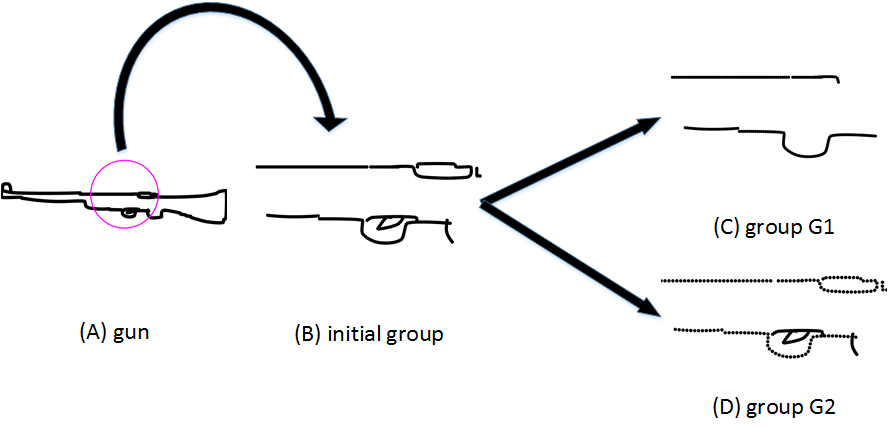
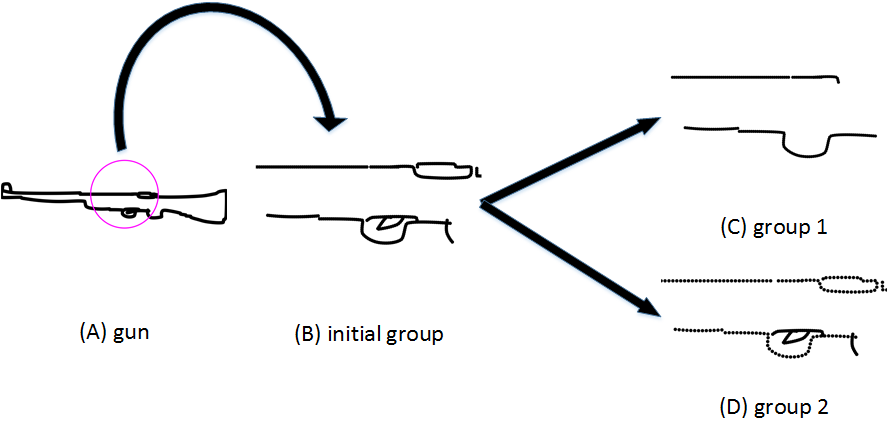
paper2.0

Changed region(s): [[0.7905, 0.9007, 0.9426, 0.9607], [0.7905, 0.4804, 0.9426, 0.5704]]

diff --git a/sketch_point_net/approach.tex b/sketch_point_net/approach.tex
@@ -1,12 +1,38 @@
 \section{Methodology}
 \label{sec:methodology}
 
-In this section, we introduce key steps of our works. We first detail how to sample points of fixed number for each sketch. Next, we explain our group scheme to choose a proper group size and guarantee the integrity of each group patterns. We then introduce our SketchPointNet architecture.
+In this section, we introduce key steps of our works. We first detail how the architecture of SketchPointNet is designed. Next, we will show how to resample each sketch into a fixed number of points. At last, we explain that our group scheme guarantees the integrity of each group patterns. The pipeline of our work are shown in Fig.~\ref{fig:pp}
+
+\begin{figure}[htbp]
+    \center
+    \includegraphics[width=3in]{images/pp.png}
+    \fcaption{Pipeline of our work}
+    \label{fig:pp}
+\end{figure}
+
+\subsection{SketchPointNet}
+\label{ssec:sketch_point_net}
+
+SketchPointNet architecture(see Fig.~\ref{fig:sketchpointnet}) are borrowed from PointNet++ architecture. In order to get local pattern information of each sketch, we group sketches for two times. Micro PointNet P1 summarize patterns with group radius $r_1$ equals to 0.1. Micro PointNet P2 summarize patterns in a large receptive field with $r_2 = 0.3$. PointNet P3 summarize pattern features generated from m2 for classification of 250 categories.
+
+In detail, each sketch is represented as 1024 points. Each point has 3 dimension. The first two dimension denote the location of the point. The last dimension is the stroke order information(each point belong to a stroke). In order to extract features of local patterns, we resample 512 points as group center every other points and group the points around the group center with $r_1 = 0.1$. After the first time of grouping, we get 512 groups $\left\{ g_{1_i}| i = 1, ..., 512 \right\}$. Each group contains 20 points. We get a 5d pattern feature after each of 512 groups passing through the micro PointNet P1. The feature of each group is a 8d vector which contains two parts. The first 5 dimension indicate the pattern feature of the group. The last 3 dimension indicate the center location of the group.
+
+In a similar way, we resample points every 4 points from the last group centers. Then we get 128 larger groups $\left\{ g_{2_i}| i = 1, ..., 128 \right\}$ after grouping $g_1$ with $r_2 = 0.3$. Each larger group contains 128 smaller groups from $g_1$. We get 29d vector as $g_2$ pattern features after feeding 128 smaller groups $g_1$ into micro PointNet P2. Pattern features concated with its center location are group features for each of $g_2$. At last, we feed PointNet P3 with $g_2$ group features. SketchPointNet output 250 scores corresponding to 250 categories.
+
+\begin{figure}
+    \center
+    \includegraphics[width=3in]{images/sketchpointnet.png}
+    \fcaption{SketchPointNet architecture.}
+    \label{fig:sketchpointnet}
+\end{figure}
+
 
 \subsection{Resample scenario}
 \label{ssec:resample_scenario}
 
-For each sketch, we sample it into a fixed number of points. The neighbor points inside a stroke have a fixed interval. We calculate each stroke length $\left\{ L_i| i = 1, ..., m \right\}$ from strokes $\left\{ T_i^{init}| i = 1, ..., m \right\}$. $m$ stands for stroke numbers. The total stroke length is $C$. Given the number of points $N$, we assign each stroke $B_i$ points $\left\{ B_i| i = 1, ..., m \right\}$ according to its corresponding stroke length $T_i$. Then we reample each stroke in $B_i$ points by using \$1 \cite{Wobbrock2007GesturesWL} resample scheme. The strokes after resampled are represented as $\left\{ T_i^{rsp}| i = 1, ..., m \right\}$. In Fig.~\ref{fig:resample}, the airplane and the tree are resample into different number of points.
+For each sketch, we sample it into a fixed number of points. Or we can sample each points in sketches with a given interval. In second case, the point number $\left\{ N_{P_i}| i = 1, ..., 20000 \right\}$ of sketches are different due to various total stroke length of each sketch. The input to the network must have a fixed size. Because tensorflow 1.2 only support static graph. If we set input size as $\max \limits_{1 \le i \le 20000} N_{P_i}$, there are great waste for computing resources. Because only few sketches need large input size.
+
+ We calculate each stroke length $\left\{ L_i| i = 1, ..., m \right\}$ from strokes $\left\{ T_i^{init}| i = 1, ..., m \right\}$. $m$ stands for stroke numbers. The total stroke length is $C$. Given the number of points $N$, we assign each stroke $B_i$ points $\left\{ B_i| i = 1, ..., m \right\}$ according to its corresponding stroke length $T_i$. Then we reample each stroke in $B_i$ points by using \$1 \cite{Wobbrock2007GesturesWL} resample scheme. The strokes after resampled are represented as $\left\{ T_i^{rsp}| i = 1, ..., m \right\}$. In Fig.~\ref{fig:resample}, the airplane and the tree are resample into different number of points.
 \begin{algorithm}[h]
 \label{alg:resample}
     \caption{Resample each sketch into N points}
@@ -32,9 +58,9 @@ For each sketch, we sample it into a fixed number of points. The neighbor points
 \subsection{Group scheme}
 \label{ssec:group_scheme}
 
-After resampling sketches, we get each of them represented as N points $\left\{P_i| i = 1,..., N\right\}$. For a sketch, We resample a series of points $\left\{P_{1}, P_{1+t}, P_{1+2*t}, ..., P_{1+(S_g-1)*t}\right\}$ every $t$ points as group center from the N Points. Then we group points according to group center with radius $r$. After grouping the sketch, we get $N_{g} \times S_{g}$. $N_{g}$ is the number of the group center. $S_{g}$ is the points number of each group. In a similar way, we group the sketch for more times according to last grouping center.
+After resampling sketches, we get each of them represented as N points $\left\{P_i| i = 1,..., N\right\}$. For a sketch, We resample a series of points $\left\{P_{1}, P_{1+t}, P_{1+2*t}, ..., P_{1+(N_g-1)*t}\right\}$ every $t$ points as group center from the N Points. Then we group points according to group center with radius $r$. After grouping the sketch, we get $N_{g} \times S_{g}^{init}$. $N_{g}$ is the number of the groups. $S_{g}^{init}$ is the points number of each group. In a similar way, we group the sketch for more times according to last grouping center.
 
-The input group must have a fixed group size. Because tensorflow only supports static graph. But with a fixed group radius $r$, group size are very different from each other. After grouping the points, We get a series of groups. One of the groups contains $S_g$ group points $\left\{ Z_i| i = 1, ..., m \right\}$. If the group size is less than $S_{g}$, we pad the group center into the group till the group size is $S_{g}$. If the group size is greater than $S_{g}$, we delete group points every other points in the group till the group size is $S_{g}$. We develop an algorithm to guarantee the integrity of group patterns when deleting extra points.
+The input group must have a fixed point number $S_g$. But with a fixed group radius $r$, group point numbers are very different from each other. After grouping the points, We get a series of groups. One of the groups contains $S_g^{init}$ group points $\left\{ Z_i| i = 1, ..., S_g^{init} \right\}$. If the point number $S_g^{init}$ is less than $S_{g}$, we pad the group center into the group till the group size is $S_{g}$. If the point number $S_g^{init}$ is greater than $S_{g}$, we delete group points every other points in the group till the point numbers is $S_{g}$. We develop an algorithm to guarantee the integrity of group patterns when deleting extra points.
 
 \begin{algorithm}[h]
 \label{alg:group}
@@ -58,22 +84,10 @@ The input group must have a fixed group size. Because tensorflow only supports s
 \begin{figure}
     \center
     \includegraphics[width=3in]{images/group.png}
-    \fcaption{Comparison of different group scheme. Group G2 contains more details than group G1.}
+    \fcaption{Comparison of different group scheme. Group 2 contains more details than group 1.}
     \label{fig:group}
 \end{figure}
 
-All N points in a sketch are chronological. Grouping do not undermine the order of time series. The points in a group are still arranged in chronological order. In Fig.~\ref{fig:group} (B), we directly delete the last extra points to ensure that a group contains $S_g$ points. There are great loss of the pattern.  Algorithm ~\ref{alg:group} makes sure of the existence of the whole pattern(see Fig.~\ref{fig:group} (C)).
+All N points in a sketch are chronological. Grouping do not undermine the order of time series. The points in a group are still arranged in chronological order. In Fig.~\ref{fig:group} (B), The initial group contains $S_g^{init}$ points which is greater than $S_g$ points. If we directly delete the last $|S_g^{init}-S_g|$ points. From Fig.~\ref{fig:group} (C), we can see that there are great loss of the pattern.  Algorithm ~\ref{alg:group} makes sure of the existence of the whole pattern(see Fig.~\ref{fig:group} (D)).
 
-\subsection{SketchPointNet}
-\label{ssec:sketch_point_net}
 
-SketchPointNet architecture are borrowed from PointNet++ architecture. Each sketch is represented as 1024 points. We resample 512 points as group center every other points and group the points around the group center with a fixed radius. After the first time of grouping, we get 512 groups. Each group contains 20 points. We get group features after each of 512 groups pass through the micro PointNet.
-
-With the group centers and its corresponding group features after first time of grouping, we group the points for the second time in a similar way. The group radius is larger than the first time with the need of a large receptive field. After two times of grouping, SketchPointNet can capture patterns of different receptive field.
-
-\begin{figure}
-    \center
-    \includegraphics[width=3in]{images/sketchpointnet.png}
-    \fcaption{SketchPointNet architecture.}
-    \label{fig:sketchpointnet}
-\end{figure}

diff --git a/sketch_point_net/introduction.tex b/sketch_point_net/introduction.tex
@@ -3,13 +3,9 @@
 
 With the popularity of mobile and potable devices, people are getting easier to sketch objects. Sketches have proved to be a powerful and effective tool for communication. A mount of approaches focused on sketch recognition have been studied. But all of them take the recognition accuracy as their only benchmark with ignorance of recognition speed. Mobile and portable devices have more limited computing resources and storage compared to high-performance server or even personal computer. So it is necessary to promote the speed of sketch recognition, but not only accuracy.
 
-Although sketches and images can be visually recognized, they have two main differences: (i) Patterns take more important place in sketch recognition than in image recognition. Sketches vary largely within class. Meanwhile, some sketches coming from different class have similar looking from the high level. But differences can be told from the mid level or low level, e.g., some cats and snowmen are identified easily from their facial part, but hardly from the whole sketches. Objects in images are from the real life. The size of different parts from one object in images are more rationale than that in sketches. (ii) Sketches are sparser than images. Sketches are generated by a pen. Images are the photos from the life. This means a sketch can be viewed as a series of points.
+Although sketches and images can be visually recognized, they have two main differences: (i) Patterns take more important place in sketch recognition than in image recognition. Sketches vary largely within class. Meanwhile, some sketches coming from different class have similar looking from the high level. But differences can be told from the mid level or low level, e.g., some cats and snowmen are identified easily from their facial part, but hardly from the whole sketches. Objects in images are from the real life. The size of different parts from one object in images are more rationale than that in sketches. (ii) Sketches are sparser than images. Sketches are composed of a group of strokes. For a sketch, most area is blank. Images contains richer information such as texture and dilation. (iii) Sketches have time information. They are generated from a pen. This means a sketch can be viewed as a series of points.
 
-Previous works on sketch recognition are generally borrowed from image classification paradigm. Both conventional sketch recognition and Deep Neural Networks (DNNs) take sketches as images. These methods do not take full advantage of the sparsity of sketches. Besides, in pursuit of high accuracy, they developed different feature fusion methods without the consideration of the model is too bloated to be distributed in mobile devices. Due to special generalization a sketch, it can be represented by only a series of points which taking less storage than represented as an image.
-
-In this paper, we propose a DNN, SketchPointNet, for accelerating sketch recognition and reducing recognition model size, which derived from PointNet \cite{qi2017pointnet}. However, existing approaches are primarily taking sketches as images and regarding recognition accuracy as their only benchmark. In order to speeding up sketch recognition, we resample each sketch as a series of points. SketchPointNet is designed with two notable characteristic: (i) a group of micro PointNets are encoded in SketchPointNet hierarchically to capture features of different level; and (ii) micro PointNets summarize patterns along the time series points, while image-based DNN's kernels move in two directions.
-
-Our contributions are summarized as follows: (i)for the first time, we take sketches as a series of points and propose a corresponding DNN to recognize them; (ii) we demonstrate that SketchPointNet has a higher recognition speed and a smaller model size than existing DNN-based approaches.
+Previous works on sketch recognition are generally borrowed from image classification paradigm. Both conventional sketch recognition and Deep Neural Networks (DNNs) take sketches as images. These methods do not take full advantage of the sparsity of sketches. Besides, in pursuit of high accuracy, they developed different feature fusion methods without the consideration of the model is too bloated to be distributed in mobile devices. Due to special generalization a sketch, it can be represented by only a series of points which takes less storage than represented as an image.
 
 \begin{figure*}
     \center
@@ -17,3 +13,19 @@ Our contributions are summarized as follows: (i)for the first time, we take sket
     \fcaption{Resample the airplane and the tree into $N$(1024, 512, 256, 128) points.}
     \label{fig:resample}
 \end{figure*}
+
+\textbf{Traditional sketch recognition.} In early years, sketch recognition applications \cite{Hse2004SketchedSR, LaViola2004MathPad2AS, Fonseca2000UsingFL} are mainly used for letters and numbers. Hse and Newton \cite{Hse2004SketchedSR} use Zernike moments as features for sketches. Laviola et al. \cite{LaViola2004MathPad2AS} develop an approach for common mathematical symbols recognition. Fonseca and Jorge \cite{Fonseca2000UsingFL} design geometrical features  according to profiles of stokes. These approaches achieve good results because of the simplicity of the symbols.
+
+Symbols from the same class usually have a standard template. Eitz et al. \cite{Eitz2012HowDH} publish a largely free-hand drawn sketches dataset TU-Berlin including common 250 categories of objects. All the objects from same class are drawn by the impression. There are huge difference in class. Eitz et al. extract HOG features of sketches and use a support vector machine(SVM) for classification. Other existing traditional works \cite{LiHSG15, Schneider2014SketchCA} also extract hand-crafted features and use SVMs for classification. The results of traditional approaches are not good on this challenging dataset, for which, humans only acheive 73.1\% recognition accuracy. 
+
+\textbf{DNN-based sketch recognition.} DNN-based approaches have greatly boosted image recognition performance. Sketch-a-Net \cite{Yu2015SketchaNetTB} and DeepSketch \cite{Seddati2015DeepSketchDC} are both proposed deep Convolutional Networks (ConvNets) for sketch recognition. Both of them are derived from image recognition ConvNets. They have larger convolutional kernel size and less convolutional layer compared with general image recognition ConvNets.
+
+Although Sketch-a-Net \cite{Yu2015SketchaNetTB} and DeepSketch \cite{Seddati2015DeepSketchDC} achieve higher recognition accuracy than traditional methods. They still treat each sketch as an image, which do not take full advantages of sparsity of sketches.
+
+\textbf{Point-based 3d model recognition} takes 3d model as group of unordered points. Sketches and 3d models are both a group of points. The difference is: (i)sketches are group of 2d points instead 3d points; (ii) sketch points have time information for they are generated from a pen.
+
+PointNet \cite{qi2017pointnet} summarises the critical points for each class. This ignores the patterns of 3d models. PointNet++ \cite{qi2017pointnetplusplus} uses a hierarchical architecture to summarise patterns of 3d model gradually. Sketches have time information for each points, which shows the way of sketches being generated.
+
+In this paper, we propose a DNN, SketchPointNet, for accelerating sketch recognition and reducing recognition model size, which derived from PointNet \cite{qi2017pointnet}. Comparing with existing DNN-based sketch recognition approaches, we treat each sketch as a series of points which is a sparser representation than image. PointNet++ \cite{qi2017pointnetplusplus} summarize patterns in 3d space, while ours summarize pattern in 2d space. Besides, we incorporate each points of sketches with stroke order information which is unique for sketch points. SketchPointNet is designed with two notable characteristics: (i) a group of micro PointNets are encoded in SketchPointNet hierarchically to capture features of different level; and (ii) micro PointNets summarize patterns along the time series points, while image-based DNN's kernels move in two directions.
+
+Our contributions are summarized as follows: (i)for the first time, we take sketches as a series of points and propose a corresponding DNN to recognize them; (ii) we demonstrate that SketchPointNet has a higher recognition speed and a smaller model size than existing DNN-based approaches.

diff --git a/sketch_point_net/experiments.tex b/sketch_point_net/experiments.tex
@@ -15,6 +15,8 @@ From the Fig.~\ref{fig:resample}, we can see that 1024 points are enough to repr
     \hline
      accuracy & x\% & x\% & x\%& x\%\\
     \hline
+     time & x & x & x& x\\
+    \hline
 \end{tabular}
 \caption{Classification with different $N$.}
 \end{table}
@@ -27,11 +29,10 @@ SketchPointNet is derived from PointNet. It uses lots of shared architecture, wh
 \centering
 \begin{tabular}{cccc}
     \hline
-     -&Sketch-a-Net& DeepSketch& Ours\\
+     -&Sketch-a-Net(vallina)& DeepSketch 1& Ours\\
     \hline
      model size& 64M&223M& 33M\\
-     speed &10.92ms&10.6ms& 5.2ms\\
-     accuracy & 72.6\% & 75.6\%& x\% \\
+     speed &10.9ms&10.6ms& 2.5ms\\
     \hline
 \end{tabular}
 \caption{Performance comparison of different networks.}
@@ -41,22 +42,32 @@ From the tabel ~\ref{tbl:speed} we can see that our model is faster and smaller 
 
 \begin{table}[htbp]
 \centering
-\begin{tabular}{ll}
+\small
+\begin{tabular}{lcc}
     \hline
-     models &accuracy\\
+     models &accuracy &end-to-end \\
     \hline
-     HOG-SVM (Eitz et al, 2012)& 56\%\\
-     Ensemble (Li et al, 2013) &61.5\%\\
-     MKL-SVM (Li et al, 2015) & 65.8\% \\
-     FV-SP (Schneider and Tuytelaars, 2014) & 68.9\% \\
-     LeNet (LeCun et al, 2012)& 55.2\% \\
-     Sketch-a-Net(vallina)(Yu et al, 2015)& 72.6\% \\
-     Sketch-a-Net(Yu et al, 2016)& 77.95\% \\
-     DeepSketch 1(Seddati et al, 2015)& 75.42\% \\
-     DeepSketch 2(Seddati et al, 2016)& 77.69\% \\
-     Our Model& x\% \\
+     HOG-SVM (Eitz et al, 2012)& 56\% &-\\
+     Ensemble (Li et al, 2013) &61.5\% &-\\
+     MKL-SVM (Li et al, 2015) & 65.8\% &-\\
+     FV-SP (Schneider and Tuytelaars, 2014) & 68.9\% &-\\
+     LeNet (LeCun et al, 2012)& 55.2\% &Yes\\
+     Sketch-a-Net(vallina)(Yu et al, 2015)& 72.6\% &Yes\\
+     Sketch-a-Net(Yu et al, 2016)& 77.95\% &No\\
+     DeepSketch 1(Seddati et al, 2015)& 75.42\% &Yes\\
+     DeepSketch 2(Seddati et al, 2016)& 77.69\% &No\\
+     Our Model& 70.4\% &Yes\\
     \hline
 \end{tabular}
 \caption{Sketch recognition with different models.}
 \label{tbl:acc}
 \end{table}
+
+Fig. ~\ref{fig:resshow} shows some results. Although our network can handle some challenging cases(green). SketchPointNet still fail on very ambiguous cases(the reds are predictions, the blacks are ground truth for each case).
+
+\begin{figure}[htbp]
+    \center
+    \includegraphics[width=3in]{images/res.png}
+    \fcaption{Illustration of recognition successes (green) and failures (red).}
+    \label{fig:resshow}
+\end{figure}

diff --git a/sketch_point_net/sketch_point_net.tex b/sketch_point_net/sketch_point_net.tex
@@ -66,7 +66,6 @@ Sketch recognition, recognition speed, model size, SketchPointNet
 \end{keywords}
 
 \input{introduction}
-\input{relatedwork}
 \input{approach}
 \input{experiments}
 \input{conclusion}
